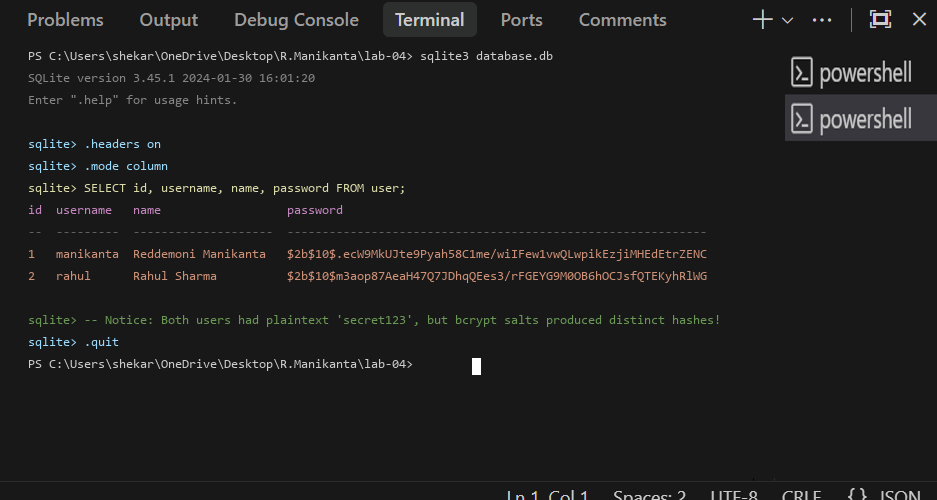
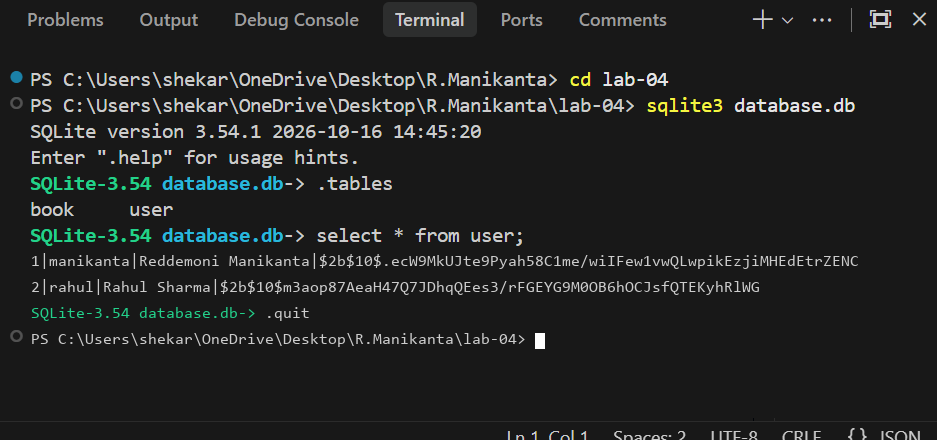
Remove artificial comments from terminal screenshots to match real terminal captures

diff --git a/lab-04/README.md b/lab-04/README.md
@@ -355,19 +355,14 @@ sqlite3 database.db
 ```
 
 ```sql
-.headers on
-.mode column
-
--- View all registered users (showing hashes only):
-SELECT id, username, name, password FROM user;
+.tables
+select * from user;
 ```
 
 ### Real Terminal Output:
 ```text
-id  username   name                  password
---  ---------  --------------------  ------------------------------------------------------------
-1   manikanta  Reddemoni Manikanta   $2b$10$.ecW9MkUJte9Pyah58C1me/wiIFew1vwQLwpikEzjiMHEdEtrZENC
-2   rahul      Rahul Sharma          $2b$10$m3aop87AeaH47Q7JDhqQEes3/rFGEYG9M0OB6hOCJsfQTEKyhRlWG
+1|manikanta|Reddemoni Manikanta|$2b$10$.ecW9MkUJte9Pyah58C1me/wiIFew1vwQLwpikEzjiMHEdEtrZENC
+2|rahul|Rahul Sharma|$2b$10$m3aop87AeaH47Q7JDhqQEes3/rFGEYG9M0OB6hOCJsfQTEKyhRlWG
 ```
 
 > [!NOTE]
